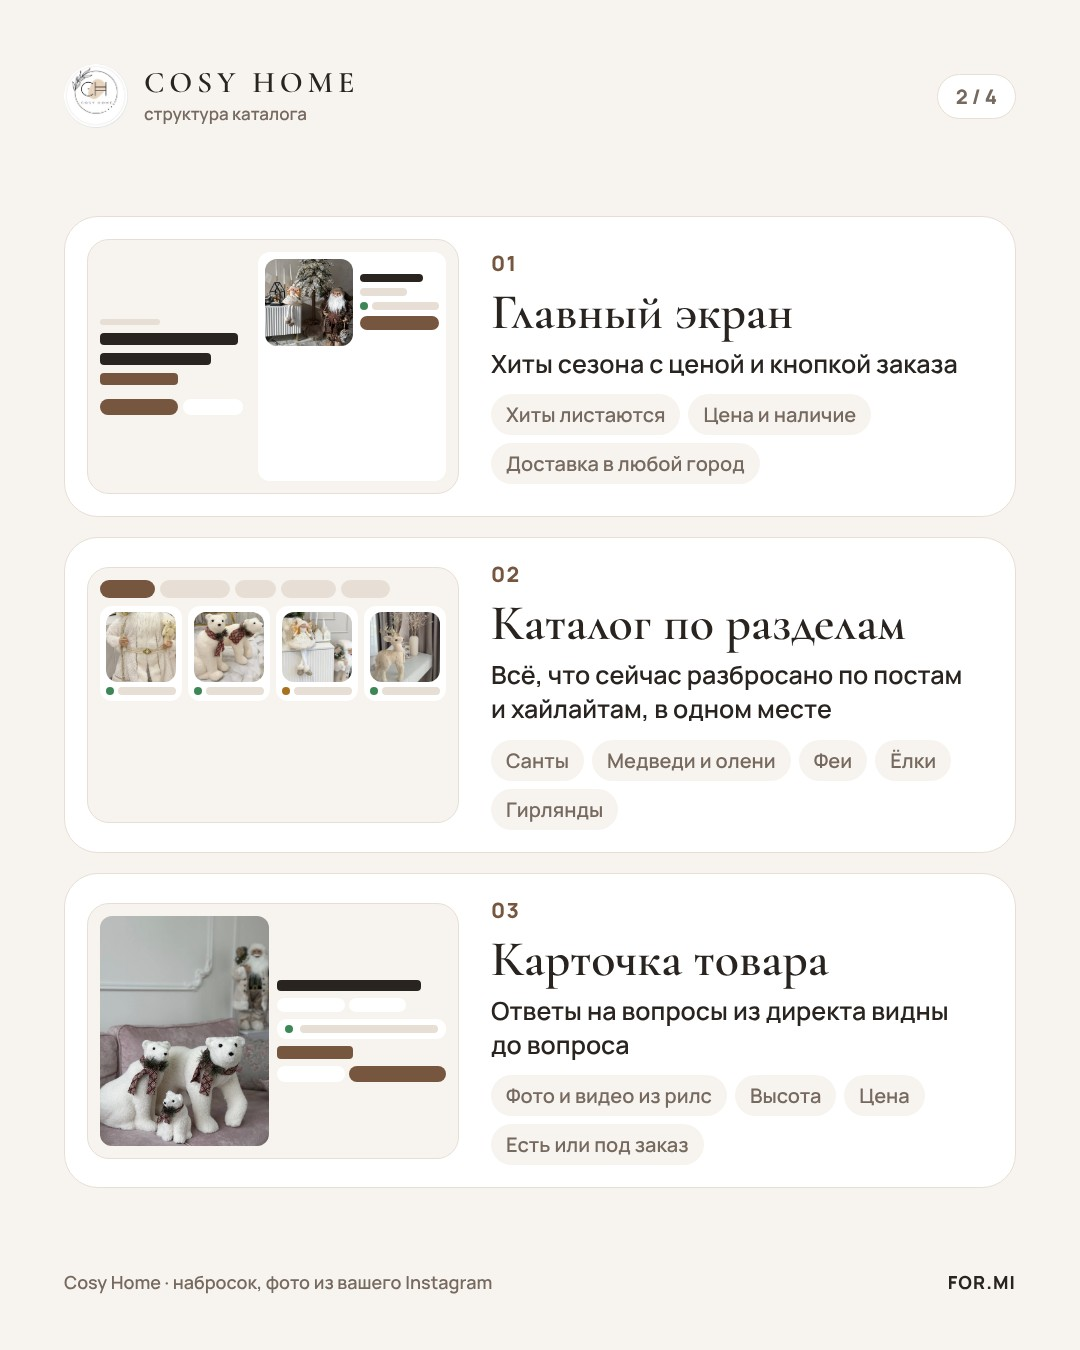
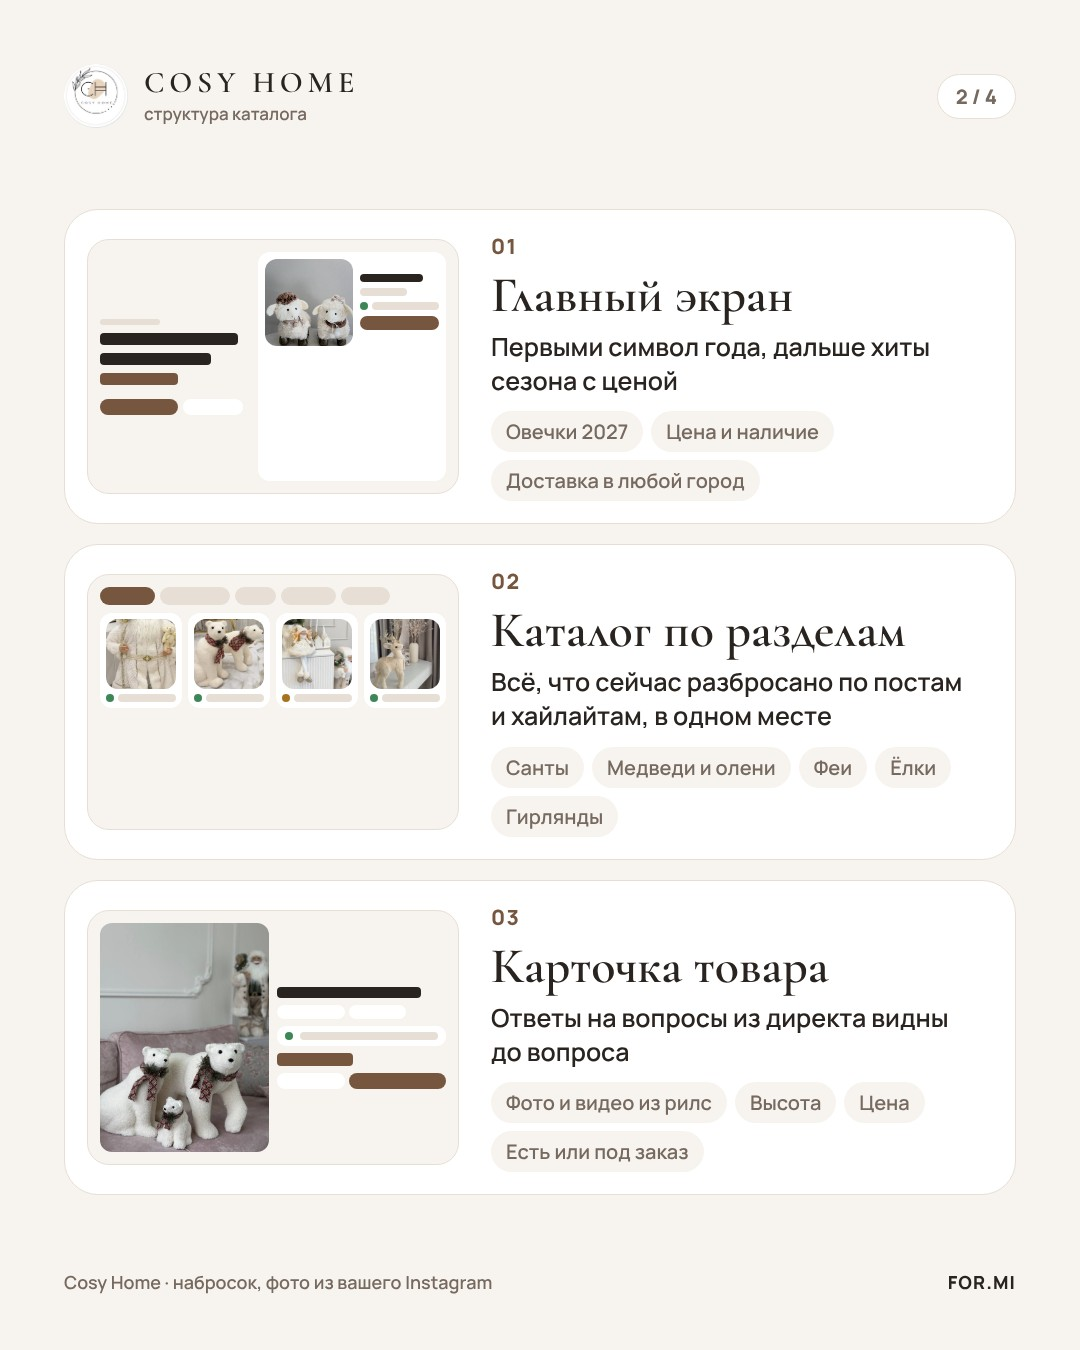
Cosy Home: овечки «Символ года 2027» первыми на главном экране
Claude-Session: https://claude.ai/code/session_01MqcZMFno41xrEQyE7TQ6Wr

diff --git a/cosyhome/index.html b/cosyhome/index.html
@@ -102,7 +102,8 @@ h1 em{font-style:italic;font-weight:500;color:var(--acc)}
 .st-photo{position:relative;aspect-ratio:4/3.4;background:#E9E4DD;overflow:hidden}
 @media (min-width:641px){.stage{display:grid;grid-template-columns:minmax(0,1fr) minmax(0,.92fr)}.st-photo{aspect-ratio:auto;min-height:100%}.st-body{align-content:start}}
 .st-photo img{position:absolute;inset:0;width:100%;height:100%;object-fit:cover;object-position:50% 50%;transition:opacity .3s}
-.st-photo img.fade{opacity:0}
+.st-photo img.fade,.ttl.fade{opacity:0}
+.ttl{position:absolute;left:0;right:0;top:72px;text-align:center;font-family:var(--display);font-style:italic;font-weight:600;font-size:clamp(34px,3.2vw,46px);line-height:1;color:#FFFFFF;text-shadow:0 2px 14px rgb(40 30 20 / .45),0 1px 2px rgb(40 30 20 / .35);pointer-events:none;transition:opacity .3s;padding-inline:12px}
 .ny{position:absolute;left:14px;top:14px;display:inline-flex;align-items:center;gap:8px;background:rgb(255 255 255 / .94);color:#2A2420;border-radius:999px;padding:6px 14px 6px 6px;font-weight:700;font-size:13.5px;box-shadow:0 8px 20px rgb(0 0 0 / .12)}
 .ny i{width:26px;height:26px;border-radius:50%;background:#76563F;color:#FFFFFF;display:grid;place-items:center}
 .ny i svg{width:15px;height:15px}
@@ -158,6 +159,7 @@ h1 em{font-style:italic;font-weight:500;color:var(--acc)}
   .st-photo{aspect-ratio:16/11}
   .st-photo img{object-position:50% 40%}
   .ny{left:10px;top:10px;font-size:12.5px}
+  .ttl{top:54px;font-size:32px}
   .arrows{right:10px;bottom:10px}
   .arrows button{width:34px;height:34px}
   .st-body{padding:14px 16px 16px;gap:11px}
@@ -297,12 +299,13 @@ dialog::backdrop{background:rgb(23 20 18 / .55);backdrop-filter:blur(3px)}
 
     <div class="stage" id="stage" aria-live="polite">
       <div class="st-photo">
-        <img id="ph" src="img/santa-elka.jpg" alt="Санта в шоколадной шубе рядом с заснеженной ёлкой и феей">
+        <img id="ph" src="img/ovechki.jpg" alt="Две белые кудрявые овечки в шапочке и шарфе">
+        <span class="ttl" id="ttl">Символ года 2027</span>
         <span class="ny"><i><svg viewBox="0 0 24 24" fill="none" stroke="currentColor" stroke-width="2.2" stroke-linecap="round" stroke-linejoin="round" aria-hidden="true"><path d="M12 2.5v19M4 7l16 10M20 7 4 17"/></svg></i><span id="ny-t">До Нового года 49&nbsp;дней</span></span>
         <div class="arrows"><button type="button" id="prev" aria-label="Предыдущий товар">←</button><span id="m-n">1 / 5</span><button type="button" id="next" aria-label="Следующий товар">→</button></div>
       </div>
       <div class="st-body">
-        <div class="st-top"><small id="m-cat">Санты</small><h2 id="m-name">Санта в&nbsp;шоколадной шубе</h2></div>
+        <div class="st-top"><small id="m-cat">Символ 2027 года</small><h2 id="m-name">Пушистые овечки</h2></div>
         <ul class="chips" id="m-spec"></ul>
         <p class="status" id="m-st">В наличии <small>для примера</small></p>
         <div class="price"><span>Цена</span><b>из вашего прайса</b></div>
@@ -352,11 +355,11 @@ dialog::backdrop{background:rgb(23 20 18 / .55);backdrop-filter:blur(3px)}
           <div style="display:flex;gap:5px;margin-top:6px"><span class="pl a" style="width:52%;height:14px"></span><span class="pl s" style="width:40%;height:14px"></span></div>
         </div>
         <div class="wcard" style="grid-template-columns:1.1fr 1fr;padding:6px;gap:6px">
-          <div class="ph" style="background-image:url(img/santa-elka.jpg)"></div>
+          <div class="ph" style="background-image:url(img/ovechki.jpg)"></div>
           <div style="display:grid;gap:5px;align-content:center"><span class="ln k" style="width:80%"></span><span class="ln" style="width:60%"></span><span style="display:flex;gap:4px;align-items:center"><span class="dt"></span><span class="ln" style="flex:1"></span></span><span class="pl a" style="height:12px"></span></div>
         </div>
       </div>
-      <div class="txt"><span class="no">01</span><h3>Главный экран</h3><p class="why">Человек из&nbsp;рилс сразу попадает в&nbsp;вашу атмосферу и&nbsp;видит хиты сезона с&nbsp;ценой</p><ul><li>Хиты сезона листаются</li><li>Цена и&nbsp;наличие</li><li>Кнопка «Заказать в&nbsp;WhatsApp»</li><li>Доставка в&nbsp;любой город</li><li>Отсчёт до&nbsp;Нового года</li></ul></div>
+      <div class="txt"><span class="no">01</span><h3>Главный экран</h3><p class="why">Человек из&nbsp;рилс сразу попадает в&nbsp;вашу атмосферу и&nbsp;видит хиты сезона с&nbsp;ценой</p><ul><li>Первыми символ года</li><li>Хиты сезона листаются</li><li>Цена и&nbsp;наличие</li><li>Кнопка «Заказать в&nbsp;WhatsApp»</li><li>Доставка в&nbsp;любой город</li><li>Отсчёт до&nbsp;Нового года</li></ul></div>
     </article>
 
     <article class="blk" id="s-katalog">
@@ -521,9 +524,9 @@ dialog::backdrop{background:rgb(23 20 18 / .55);backdrop-filter:blur(3px)}
 <script>
 /* Товары и подписи из постов @_cosy__home (сентябрь–октябрь 2026). Цены и наличие придут из прайса: здесь для примера */
 const ITEMS=[
+  {img:"img/ovechki.jpg",cat:"Символ 2027 года",name:"Пушистые овечки",spec:["Символ года","Шапочка и шарф"],st:"ok",alt:"Две белые кудрявые овечки в шапочке и шарфе",ttl:"Символ года 2027",pos:"50% 62%"},
   {img:"img/santa-elka.jpg",cat:"Санты",name:"Санта в шоколадной шубе",spec:["Под ёлку","Высота из прайса"],st:"ok",alt:"Санта в шоколадной шубе рядом с заснеженной ёлкой и феей"},
   {img:"img/medvedi-divan.jpg",cat:"Медведи и олени",name:"Белые медведи в клетчатых шарфах",spec:["Три размера на фото","С еловой веточкой"],st:"ok",alt:"Три белых медведя в клетчатых шарфах на диване"},
-  {img:"img/ovechki.jpg",cat:"Символ 2027 года",name:"Овечки в шапочках",spec:["Символ года","Шапочка и шарф"],st:"ok",alt:"Две белые кудрявые овечки в шапочке и шарфе"},
   {img:"img/feya.jpg",cat:"Феи",name:"Фея с золотыми крыльями",spec:["Сидит на полке","Ножки свисают"],st:"order",alt:"Фея в белом платье с золотыми крыльями сидит на комоде"},
   {img:"img/elka-snezh.jpg",cat:"Ёлки",name:"Заснеженная ёлка",spec:["Высота из прайса","На мешковине"],st:"ok",alt:"Заснеженная ёлка с огоньками на основании в мешковине"}
 ];
@@ -546,7 +549,8 @@ ITEMS.forEach(m=>{const i=new Image();i.src=m.img});
 function show(k){
   cur=(k+ITEMS.length)%ITEMS.length;const m=ITEMS[cur],ph=$("#ph");
   ph.classList.add("fade");
-  setTimeout(()=>{ph.src=m.img;ph.alt=m.alt;ph.classList.remove("fade")},160);
+  const tt=$("#ttl");tt.classList.add("fade");
+  setTimeout(()=>{ph.src=m.img;ph.alt=m.alt;ph.style.objectPosition=m.pos||"";ph.classList.remove("fade");tt.textContent=m.ttl||"";tt.hidden=!m.ttl;tt.classList.remove("fade")},160);
   $("#m-cat").textContent=m.cat;$("#m-name").textContent=m.name;
   $("#m-spec").innerHTML=m.spec.map(x=>`<li>${x}</li>`).join("");
   const s=$("#m-st");s.className="status"+(m.st==="order"?" order":"");

diff --git a/cosyhome/struktura.html b/cosyhome/struktura.html
@@ -112,11 +112,11 @@ h1 em{font-style:italic;font-weight:500;color:var(--acc)}
           <div style="display:flex;gap:5px;margin-top:6px"><span class="pl a" style="width:52%;height:16px"></span><span class="pl s" style="width:40%;height:16px"></span></div>
         </div>
         <div class="wcard" style="grid-template-columns:1.1fr 1fr;padding:7px;gap:7px">
-          <div class="ph" style="background-image:url(img/santa-elka.jpg)"></div>
+          <div class="ph" style="background-image:url(img/ovechki.jpg)"></div>
           <div style="display:grid;gap:6px;align-content:center"><span class="ln k" style="width:80%"></span><span class="ln" style="width:60%"></span><span style="display:flex;gap:4px;align-items:center"><span class="dt"></span><span class="ln" style="flex:1"></span></span><span class="pl a" style="height:14px"></span></div>
         </div>
       </div>
-      <div class="txt"><span class="no">01</span><h3>Главный экран</h3><p class="why">Хиты сезона с&nbsp;ценой и&nbsp;кнопкой заказа</p><ul><li>Хиты листаются</li><li>Цена и&nbsp;наличие</li><li>Доставка в&nbsp;любой город</li></ul></div>
+      <div class="txt"><span class="no">01</span><h3>Главный экран</h3><p class="why">Первыми символ года, дальше хиты сезона с&nbsp;ценой</p><ul><li>Овечки 2027</li><li>Цена и&nbsp;наличие</li><li>Доставка в&nbsp;любой город</li></ul></div>
     </article>
     <article class="blk">
       <div class="wf" style="grid-template-rows:auto 1fr">
